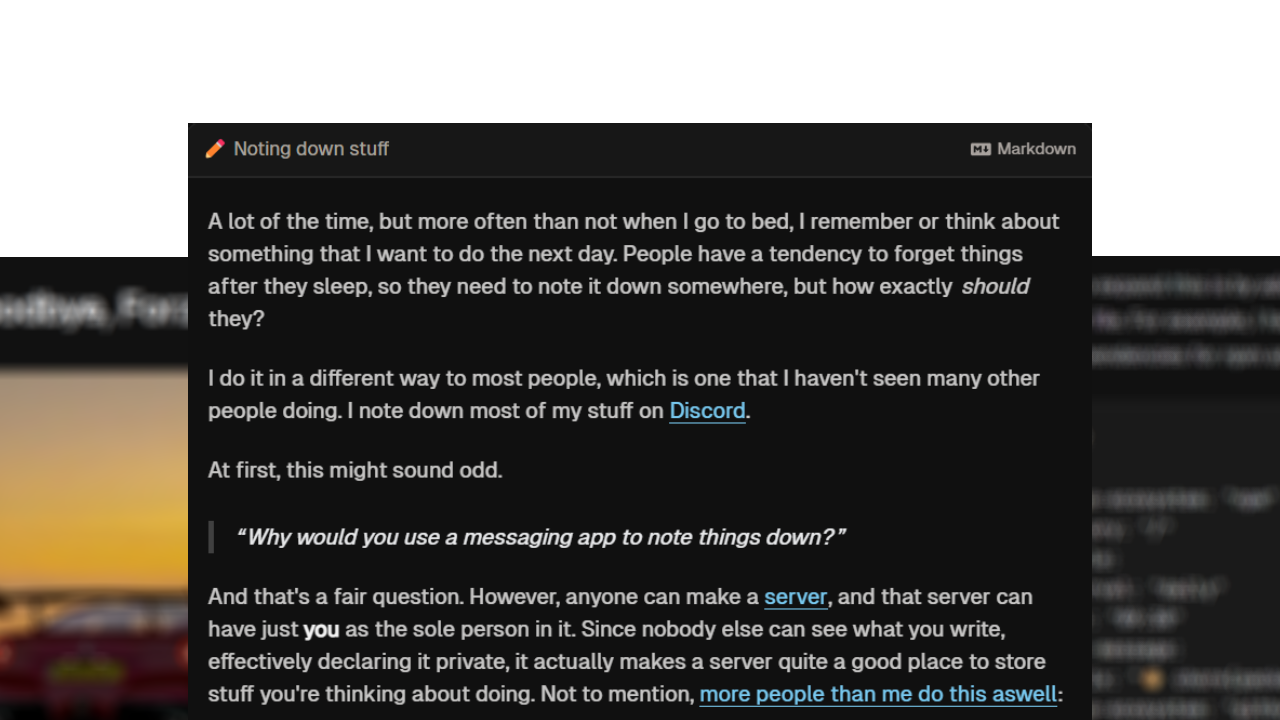
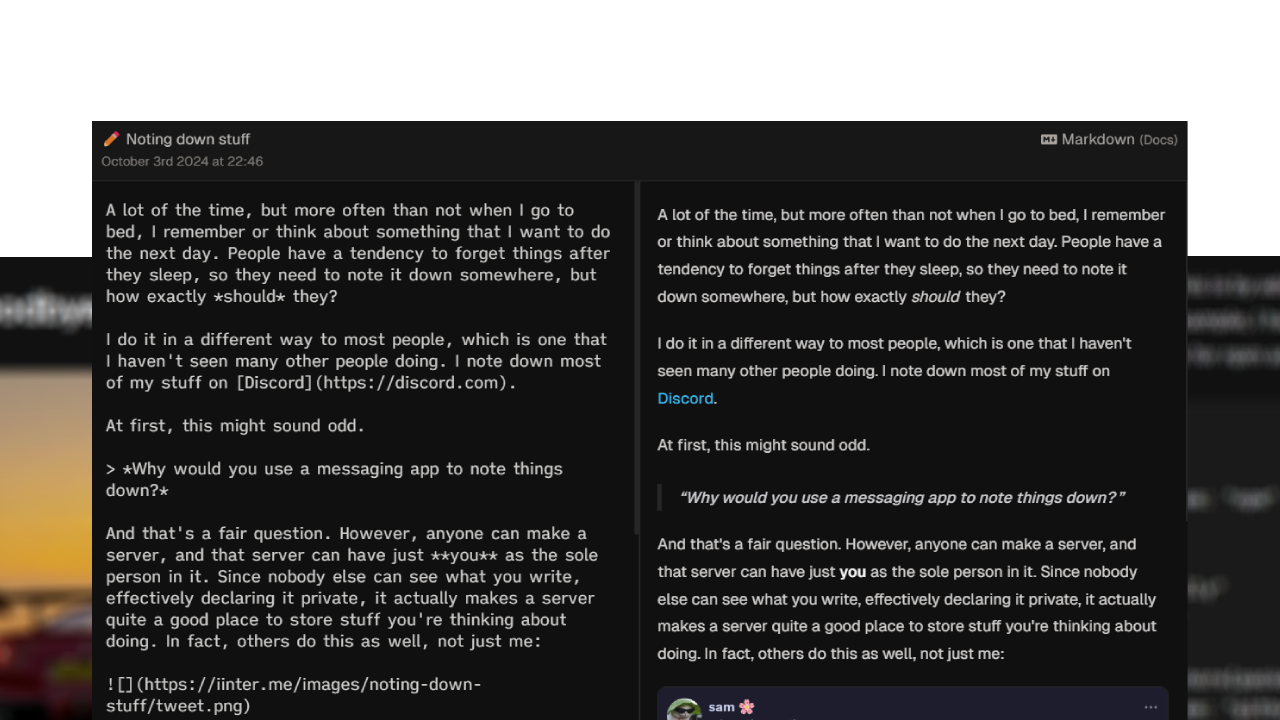
♻ refactor(markdown): make markdown and editor side by side
You can now edit and preview your notes side by side-by-side with live Markdown rendering! No more toggling back and forth (as much). When you toggle the Markdown view now, you'll see both the Editor and Markdown view, so you don't need to go back and forth anymore.

Most of the Editor styling had to be rewritten for this, so it might be a little flunky and may have some edge cases (i hope not). Also, the scrollbars of the Editor and Markdown view are (mostly) in sync, but they will only sync when you scroll in the Markdown area.

Also updated some things to account for these changes.

Changed region(s): [[0.0625, 0.1528, 0.9375, 1.0]]

diff --git a/src/components/Editor.tsx b/src/components/Editor.tsx
@@ -1,4 +1,4 @@
-import React, { useState, useEffect, useRef } from 'react';
+import React, { useState, useEffect, useRef, useCallback } from 'react';
 import Command from '@/components/Command';
 import DragDropOverlay from '@/components/DragDropOverlay';
 import NoteManager from '@/components/Manager/DrawerLayout';
@@ -14,7 +14,7 @@ import Link from 'next/link';
 import { toast, Toaster } from 'sonner';
 import { motion } from 'framer-motion';
 import { saveAs } from 'file-saver';
-import { isIOS } from 'react-device-detect';
+import { isIOS, isMobile } from 'react-device-detect';
 import { FaMarkdown } from 'react-icons/fa';
 import { useRouter } from 'next/router';
 
@@ -32,8 +32,10 @@ export default function Editor() {
   const [isPreviewMode, setIsPreviewMode] = useState(false);
   const [tags, setTags] = useState<string[]>([]);
   const [formattedDate, setFormattedDate] = useState('');
+  const [scrollPosition, setScrollPosition] = useState(0);
   const fileInputRef = useRef<HTMLInputElement | null>(null);
   const textareaRef = useRef<HTMLTextAreaElement | null>(null);
+  const markdownRef = useRef<HTMLDivElement | null>(null);
 
   useEffect(() => {
     // When the URL contains `?markdown=true`, the 
@@ -117,6 +119,26 @@ export default function Editor() {
       textareaRef.current.focus();
     }
   }, [currentNoteId]);
+
+  // Sync scrollbars
+  const syncScroll = (e) => {
+    if (textareaRef.current && markdownRef.current) {
+      const textareaHeight = textareaRef.current.scrollHeight - textareaRef.current.clientHeight;
+      const markdownHeight = markdownRef.current.scrollHeight - markdownRef.current.clientHeight;
+      const scrollRatio = markdownHeight / textareaHeight;
+
+      const newScrollPosition = e.target.scrollTop * scrollRatio;
+      markdownRef.current.scrollTop = newScrollPosition; // Sync markdown scroll
+      textareaRef.current.scrollTop = e.target.scrollTop; // Sync textarea scroll
+    }
+  };
+
+  useEffect(() => {
+    if (textareaRef.current) {
+      // Update textarea scroll position
+      textareaRef.current.scrollTop = scrollPosition;
+    }
+  }, [scrollPosition]);
 
   const handleAddNote = async () => {
     try {
@@ -279,7 +301,7 @@ export default function Editor() {
           let commandOutput = foundCommand[1].content;
   
           // Use the command key from the foundCommand for TOC logic
-          if (foundCommand[0] === 'toc' || foundCommand[1].aliases.includes(command)) {
+          if (foundCommand[0] === 'toc' || foundCommand[1].aliases.includes('contents')) {
             const toc = generateTOC(value);
             commandOutput = '## Table of Contents\n\n' + toc;
           }
@@ -561,7 +583,7 @@ export default function Editor() {
       onDragLeave={handleDragLeave}
     >
       <DragDropOverlay isDraggingOver={isDraggingOver} />
-      <div className="flex flex-row w-full max-w-2xl mr-10 mt-5">
+      <div className={`flex flex-row w-full mt-5 duration-300 ${isPreviewMode ? 'max-w-5xl mr-10' : 'max-w-[710px] md:mr-0 mr-10'}`}>
         <div className="flex flex-row w-full">
           <Command openCommandMenu={handleCommandSelect} />
           <div className="-mx-3">
@@ -583,7 +605,7 @@ export default function Editor() {
           </div>
         </div>
       </div>
-      <div className="max-w-2xl w-full space-y-3 flex-col relative z-10 mb-10">
+      <div className="max-w-5xl w-full space-y-3 flex-col relative z-10 mb-10">
         <div className="relative">
           <input
             type="file"
@@ -593,64 +615,77 @@ export default function Editor() {
             accept=".txt,.md"
             onChange={handleFileInputChange}
           />
-          <motion.div
-            initial={{ opacity: 0.01 }}
-            animate={{ opacity: 1 }}
-            transition={{ duration: 0.5, delay: 0.1 }}
-            className="px-3 py-[0.6rem] text-stone-400 bg-neutral-900 border border-neutral-800 -mb-3 rounded-t-xl flex flex-col justify-between"
-          >
-            {/* Note Title */}
-            <div className="flex justify-between items-center">
-              <span className="text-sm text-stone-300/85 truncate overflow-ellipsis" aria-label="Note Name">
-                {notes[currentNoteId]?.name || (Object.keys(notes).length === 0 ? 'Note Name' : 'New Note')}
-              </span>
-              {/* Markdown Preview Mode Indicator */}
-              {isPreviewMode && (
-                <motion.span
-                  initial={{ opacity: 0.01 }}
-                  animate={{ opacity: 1 }}
-                  transition={{ duration: 0.5 }}
-                  className="ml-2 text-xs md:text-sm text-stone-400 flex items-center"
-                >
-                  <FaMarkdown size={15} className="mr-1" /> Markdown
-                  {/* Markdown Documentation Link */}
-                  <Link 
-                    href={mdDocsLink}
-                    target="_blank"
-                    rel="noopener noreferrer"
-                    className="ml-1 text-xs text-stone-400/80 hover:text-stone-300 duration-300"
-                    aria-label="Markdown Documentation Link"
+          <div className={`w-full mx-auto flex flex-col duration-300 ${isPreviewMode ? 'max-w-5xl' : 'max-w-2xl'}`}>
+            <motion.div
+              initial={{ opacity: 0.01 }}
+              animate={{ opacity: 1 }}
+              transition={{ duration: 0.5, delay: 0.1 }}
+              className="px-3 py-[0.6rem] text-stone-400 bg-neutral-900 border border-neutral-800 -mb-3 rounded-t-xl flex flex-col justify-between"
+            >
+              {/* Note Title */}
+              <div className="flex justify-between items-center">
+                <span className="text-sm text-stone-300/85 truncate overflow-ellipsis" aria-label="Note Name">
+                  {notes[currentNoteId]?.name || (Object.keys(notes).length === 0 ? 'Note Name' : 'New Note')}
+                </span>
+                {/* Markdown Preview Mode Indicator */}
+                {isPreviewMode && (
+                  <motion.span
+                    initial={{ opacity: 0.01 }}
+                    animate={{ opacity: 1 }}
+                    transition={{ duration: 0.5 }}
+                    className="ml-2 text-xs md:text-sm text-stone-400 flex items-center"
                   >
-                    (Docs)
-                  </Link>
-                </motion.span>
-              )}
-            </div>
-            {/* Note Creation Date */}
-            <div className="text-xs truncate overflow-ellipsis text-stone-400/70 flex items-center mt-0.5" aria-label="Note Creation Date">
-              {/* Note ID's are stored as their time created in Unix, so we can use that here */}
-              {formattedDate}            
-            </div>
-          </motion.div>
-          {isPreviewMode ? (
-            <div>
-              <MarkdownPreview content={notes[currentNoteId]?.content || 'No content to preview.'} />
-            </div>
-          ) : (
-            <div>
+                    <FaMarkdown size={15} className="mr-1" /> Markdown
+                    {/* Markdown Documentation Link */}
+                    <Link
+                      href={mdDocsLink}
+                      target="_blank"
+                      rel="noopener noreferrer"
+                      className="ml-1 text-xs text-stone-400/80 hover:text-stone-300 duration-300"
+                      aria-label="Markdown Documentation Link"
+                    >
+                      (Docs)
+                    </Link>
+                  </motion.span>
+                )}
+              </div>
+              {/* Note Creation Date */}
+              <div className="text-xs truncate overflow-ellipsis text-stone-400/70 flex items-center mt-0.5" aria-label="Note Creation Date">
+                {/* Note ID's are stored as their time created in Unix, so we can use that here */}
+                {formattedDate}
+              </div>
+            </motion.div>
+            {/* Editor/Textarea */}
+            <div className="flex flex-col md:flex-row justify-center mt-3 max-w-5xl">
               <motion.textarea
-                initial={{ opacity: 0.01 }}
+                initial={{ opacity: 0 }}
                 animate={{ opacity: 1 }}
-                transition={{ duration: 0.5, delay: 0.1 }}
+                transition={{ duration: 0.3 }}
                 ref={textareaRef}
                 value={notes[currentNoteId]?.content || ''}
                 placeholder="Start typing here..."
                 onChange={handleTextareaChange}
-                className="bg-transparent border border-neutral-800 text-stone-200/90 placeholder:text-neutral-600 outline-none w-full p-4 duration-300 text-sm md:text-base rounded-b-lg rounded-t-none min-h-96 md:h-[551px] h-[520px] max-w-screen overflow-auto caret-amber-400 resize-none mt-3 textarea-custom-scroll font-ia-quattro"
+                onScroll={syncScroll}
+                className={`bg-transparent border border-neutral-800 text-stone-200/90 placeholder:text-neutral-600 outline-none leading-[21.3px]
+                  ${isPreviewMode ? 'md:block max-w-full md:max-w-lg text-sm md:text-[15.5px] md:w-1/2 rounded-r-lg md:rounded-r-none' : 'max-w-full w-full text-sm md:text-base mx-auto'} 
+                p-4 rounded-b-lg rounded-t-none min-h-[542px] max-h-[552px] overflow-auto caret-amber-400 resize-none textarea-custom-scroll font-ia-quattro tracking-tight`}
                 aria-label="Note Content"
               />
+              {isPreviewMode && (
+                <div 
+                  ref={markdownRef} 
+                  className={`md:block w-full md:w-1/2 mt-0 ${isPreviewMode ? 'mt-3 max-w-full w-full md:mt-0' : 'mt-0'}`}
+                >
+                  <MarkdownPreview 
+                    scrollPosition={scrollPosition} 
+                    setScrollPosition={setScrollPosition} 
+                    textareaRef={textareaRef} 
+                    content={notes[currentNoteId]?.content || 'No content to preview.'} 
+                  />
+                </div>
+              )}
             </div>
-          )}
+          </div>
         </div>
       </div>
       {/* `pointer-events-auto` allows toasts to be interacted with when in something like a dialog */}

diff --git a/src/components/markdown/MarkdownPreview.js b/src/components/markdown/MarkdownPreview.js
@@ -1,27 +1,51 @@
-import React from 'react';
+import React, { useEffect, useRef } from 'react';
 import ReactMarkdown from 'react-markdown';
 import remarkGfm from 'remark-gfm';
 import remarkGemoji from 'remark-gemoji';
 import remarkMath from 'remark-math';
-import remarkFrontmatter from 'remark-frontmatter'
+import remarkFrontmatter from 'remark-frontmatter';
 import rehypeExternalLinks from 'rehype-external-links';
 import rehypeRaw from 'rehype-raw';
 import rehypeSlug from 'rehype-slug';
 import rehypeKatex from 'rehype-katex';
+import markdownStyles from '@/components/markdown/MarkdownStyles';
 import { rehypeGithubAlerts } from 'rehype-github-alerts';
-import markdownStyles from './MarkdownStyles';
-import 'katex/dist/katex.min.css';
 import { motion } from 'framer-motion';
+import 'katex/dist/katex.min.css';
 
-const MarkdownPreview = ({ content }) => {
+const MarkdownPreview = ({ content, scrollPosition, setScrollPosition, textareaRef }) => {
+  const scrollRef = useRef();
+
+  const handleScroll = () => {
+    const currentScrollTop = scrollRef.current.scrollTop;
+    if (currentScrollTop !== scrollPosition) {
+      setScrollPosition(currentScrollTop);
+      if (textareaRef && textareaRef.current) {
+        textareaRef.current.scrollTop = currentScrollTop;
+      }
+    }
+  };
+
+  useEffect(() => {
+    const currentScrollElement = scrollRef.current;
+    currentScrollElement.addEventListener('scroll', handleScroll);
+
+    return () => {
+      currentScrollElement.removeEventListener('scroll', handleScroll);
+    };
+  }, [scrollPosition]);
+
   return (
-    <div>
-      <motion.div
-        initial={{ opacity: 0 }}
-        animate={{ opacity: 1 }}
-        transition={{ duration: 0.5 }}
-        className="prose prose-invert text-zinc-300 w-full max-w-2xl mx-auto break-words"
-        style={{ fontFamily: 'Geist Sans, sans-serif' }}
+    <motion.div
+      initial={{ opacity: 0 }}
+      animate={{ opacity: 1 }}
+      transition={{ duration: 0.3 }}
+      className="w-full max-w-full mx-auto prose prose-invert break-words"
+      style={{ fontFamily: 'Geist Sans, sans-serif' }}
+    >
+      <div
+        ref={scrollRef}
+        className="h-[542px] overflow-y-auto textarea-custom-scroll border border-neutral-800 rounded-b-lg rounded-l-lg md:rounded-l-none rounded-t-lg md:rounded-t-none p-4"
       >
         <ReactMarkdown
           children={content}
@@ -39,10 +63,10 @@ const MarkdownPreview = ({ content }) => {
             rehypeKatex,
             [rehypeExternalLinks, { target: '_blank', rel: ['noopener', 'noreferrer'] }],
           ]}
-          className="bg-transparent border border-neutral-800 text-stone-200/95 placeholder:text-neutral-600 outline-none w-full px-4 duration-300 text-[14.5px] md:text-base rounded-b-lg min-h-96 h-[557px] max-w-screen overflow-auto caret-amber-400 resize-none overflow-x-hidden mt-3 textarea-custom-scroll font-sans"
+          className="bg-transparent text-stone-200/95 placeholder:text-neutral-600 outline-none w-full -mt-4 -mb-4 text-[14.5px] caret-amber-400 font-sans duration-300"
         />
-      </motion.div>
-    </div>
+      </div>
+    </motion.div>
   );
 };
 

diff --git a/src/components/Landing/Badge.tsx b/src/components/Landing/Badge.tsx
@@ -5,7 +5,9 @@ import { ArrowRight } from 'lucide-react';
 
 // ? To make the badge link somewhere, add a link in the speech marks after `link =`.
 // ? To not wrap the badge in a link, leave the text in between the speech marks blank.
-const Badge = ({ link = 'https://docs.notetxt.xyz' }) => {
+const Badge = ({ link = '/editor?markdown=true' }) => {
+  const isExternalLink = link.startsWith('http');
+  
   const content = (
     <div 
       className={`
@@ -16,7 +18,7 @@ const Badge = ({ link = 'https://docs.notetxt.xyz' }) => {
       aria-label="Badge"
     >
       <div className="text-ellipsis overflow-hidden whitespace-nowrap">
-        📚 Read the new Notetxt documentation now!
+        ✨ Try the revamped Markdown previewing experience!
       </div>
       {link && 
         <ArrowRight size={15} className="ml-1 text-zinc-100/70 group-hover:translate-x-0.5 duration-300" />
@@ -32,7 +34,10 @@ const Badge = ({ link = 'https://docs.notetxt.xyz' }) => {
       transition={{ duration: 0.5, delay: 0.4 }}
     >
       {link ? (
-        <Link href={link} target="_blank" rel="noopener noreferrer">
+        <Link 
+          href={link} 
+          {...(isExternalLink && { target: "_blank", rel: "noopener noreferrer" })}
+        >
           {content}
         </Link>
       ) : (

diff --git a/src/components/Command.tsx b/src/components/Command.tsx
@@ -3,6 +3,7 @@ import { FaGithub } from 'react-icons/fa';
 import { motion, AnimatePresence } from 'framer-motion';
 import { Command as CmdCommand } from 'cmdk';
 import tips from '@/data/tips.json';
+import { FaMarkdown } from 'react-icons/fa';
 import { 
     Command, Search,
     FolderOpen, Plus, Copy, Download, View, ScrollText, 
@@ -54,7 +55,7 @@ const CommandMenu = ({ onCommandSelect, isOpen, toggleMenu }) => {
     { id: 'new', name: 'New Note', icon: <Plus size={20} />, keybind: 'Ctrl+N' },
     { id: 'copy', name: 'Copy Note', icon: <Copy size={20} />, keybind: 'Ctrl+Shift+C' },
     { id: 'save', name: 'Download Note', icon: <Download size={20} />, keybind: 'Ctrl+S' },
-    { id: 'preview', name: 'Preview Markdown', icon: <View size={20} />, keybind: 'Ctrl+M' },
+    { id: 'preview', name: 'View In Markdown', icon: <FaMarkdown size={20} />, keybind: 'Ctrl+M' },
     { id: 'summary', name: 'Note Summary', icon: <ScrollText size={20} />, keybind: 'Ctrl+I' },
   ];
 
